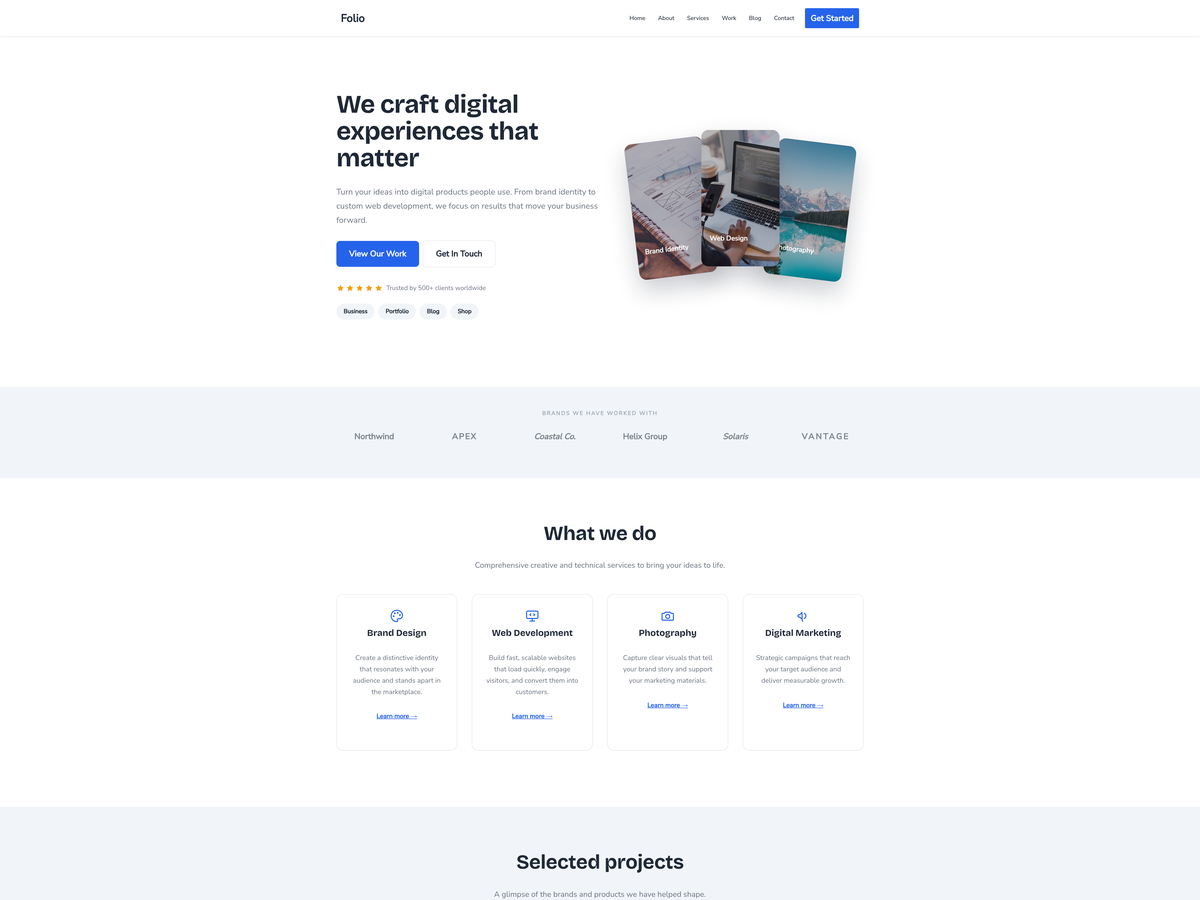
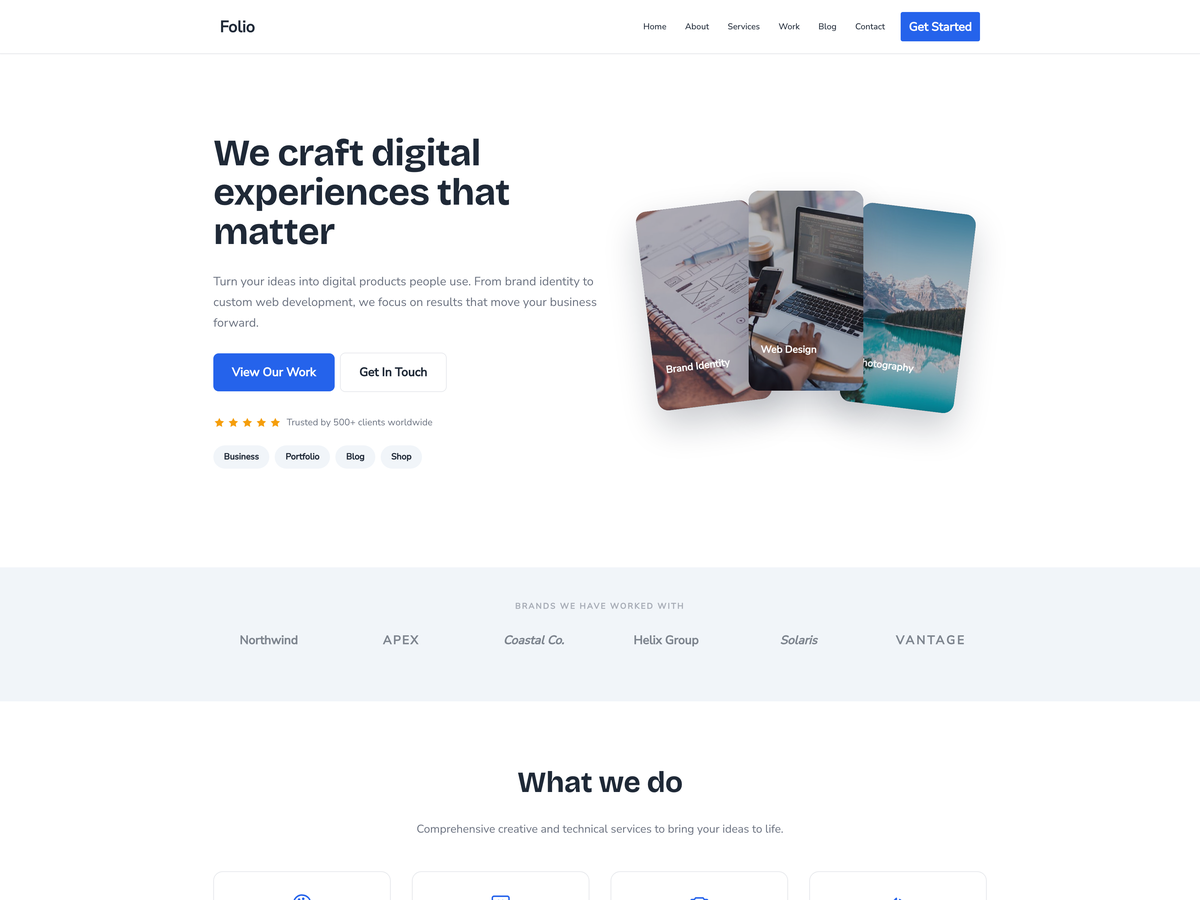
fix: PHP 7.0 compat, zero new translation strings, less-zoomed screenshot
- Replace ': void' return type with a @user void docblock (PHP 7.0 target;
  PHPCompatibility flagged voidFound)
- Make the renamed demo page titles "Services"/"Work" plain strings instead
  of _x() so the rebuild adds zero new translatable strings (only removes the
  old Portofolio/Project Details titles)
- Recapture screenshot at a lower zoom (1800x1350 -> 1200x900) so the hero
  reads more prominently

diff --git a/inc/compatibility/starter_content.php b/inc/compatibility/starter_content.php
@@ -130,8 +130,10 @@ class Starter_Content {
 	 * Apply the starter content polish layer as core custom CSS.
 	 *
 	 * Scoped under .folio-* classes, so it only affects the starter pages.
+	 *
+	 * @return void
 	 */
-	private function apply_starter_custom_css(): void {
+	private function apply_starter_custom_css() {
 		if ( ! function_exists( 'wp_update_custom_css_post' ) ) {
 			return;
 		}
@@ -165,13 +167,14 @@ class Starter_Content {
 				'type'      => 'post_type',
 				'object'    => 'page',
 				'object_id' => '{{' . self::SERVICES_SLUG . '}}',
-				'title'     => _x( 'Services', 'Theme starter content', 'neve' ),
+				// Intentionally untranslated demo labels so the renamed pages add no new POT strings.
+				'title'     => 'Services',
 			],
 			'page_work'     => [
 				'type'      => 'post_type',
 				'object'    => 'page',
 				'object_id' => '{{' . self::WORK_SLUG . '}}',
-				'title'     => _x( 'Work', 'Theme starter content', 'neve' ),
+				'title'     => 'Work',
 			],
 			'page_blog'     => [
 				'type'      => 'post_type',

diff --git a/inc/compatibility/starter-content/services.php b/inc/compatibility/starter-content/services.php
@@ -360,7 +360,7 @@ HTML;
 return [
 	'post_type'    => 'page',
 	'post_name'    => 'services',
-	'post_title'   => _x( 'Services', 'Theme starter content', 'neve' ),
+	'post_title'   => 'Services',
 	'post_content' => str_replace(
 		[ '{{theme_uri}}', '{{home_url}}' ],
 		[ trailingslashit( get_template_directory_uri() ), trailingslashit( home_url() ) ],

diff --git a/inc/compatibility/starter-content/work.php b/inc/compatibility/starter-content/work.php
@@ -218,7 +218,7 @@ $post_content = str_replace( '$arrow', $arrow, $post_content );
 return [
 	'post_type'    => 'page',
 	'post_name'    => 'work',
-	'post_title'   => _x( 'Work', 'Theme starter content', 'neve' ),
+	'post_title'   => 'Work',
 	'post_content' => str_replace(
 		[ '{{theme_uri}}', '{{home_url}}' ],
 		[ trailingslashit( get_template_directory_uri() ), trailingslashit( home_url() ) ],